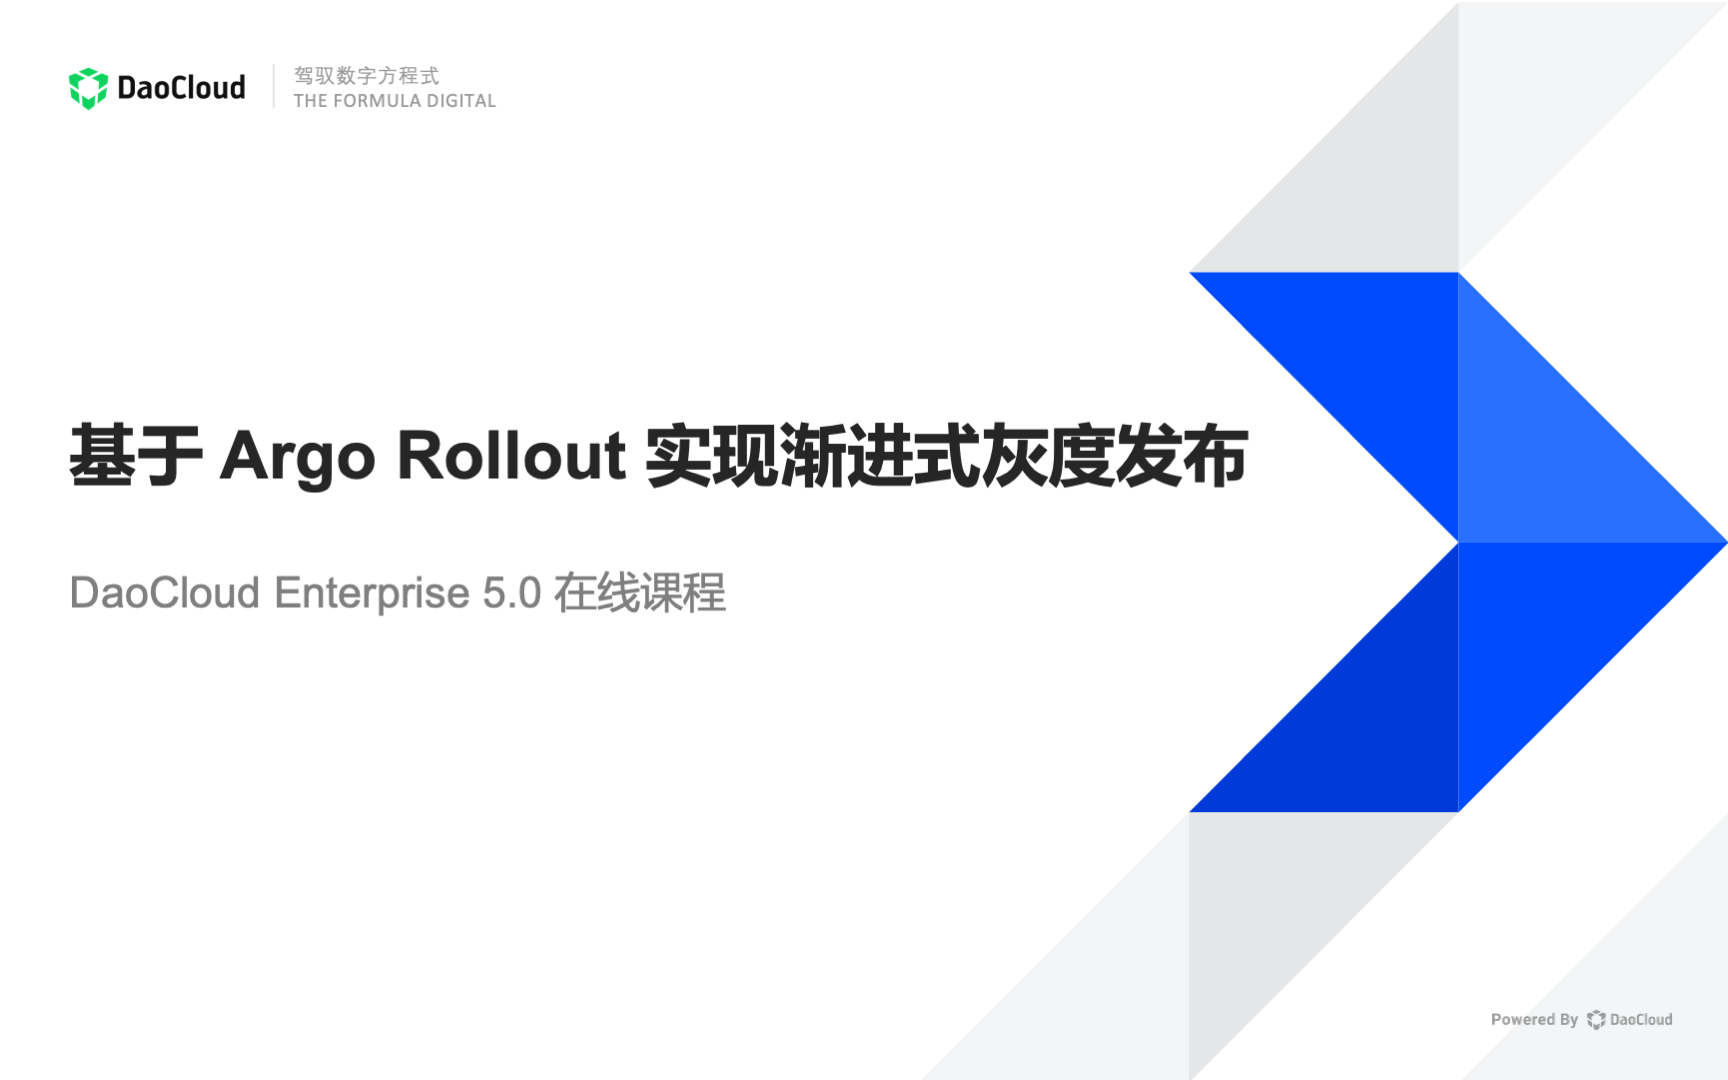
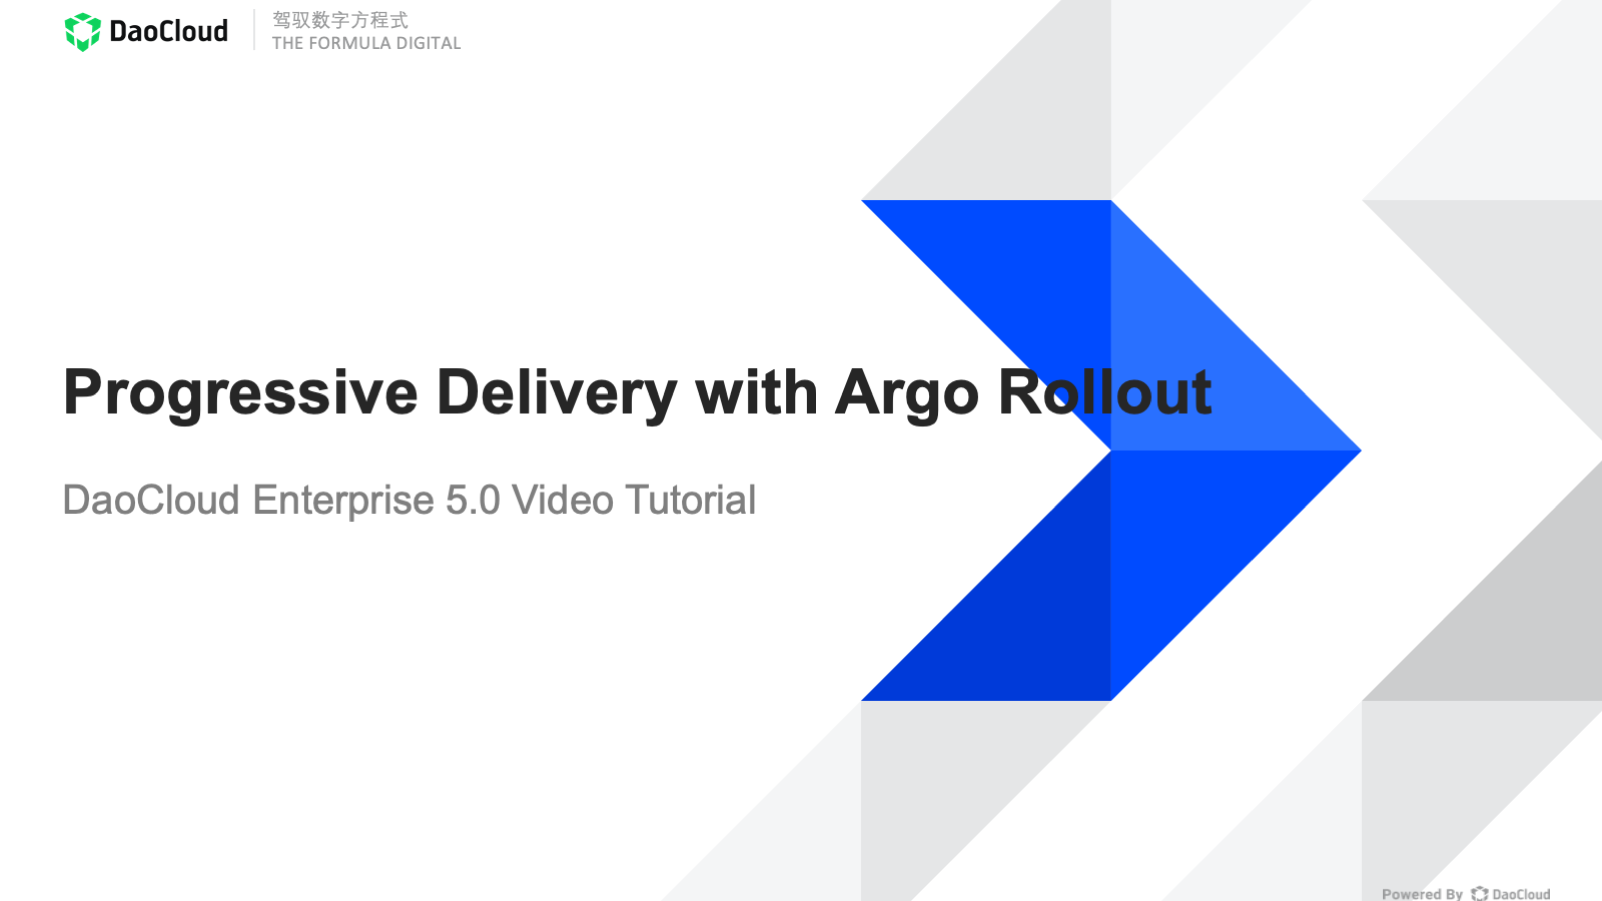
update en video

diff --git a/docs/en/docs/videos/kairship.md b/docs/en/docs/videos/kairship.md
@@ -2,28 +2,48 @@
 
 > If there is a problem with the video display, please refresh the page, or try to clear the browser cache.
 
-## Create a multicloud instance
-
-See the [Create a multicloud instance](../kairship/instance/add.md) documentation page.
+## Multicloud Module Introduction
 
 <div class="responsive-video-container">
-<iframe src="https://harbor-test2.cn-sh2.ufileos.com/docs/videos/kairship-instance.mp4" scrolling="no" border="0" frameborder="no" framespacing="0 " allowfullscreen="true"> </iframe>
+<video controls src="https://harbor-test2.cn-sh2.ufileos.com/docs/videos/multicloud-intro.mp4" preload="metadata" poster="../images/kairship-intro.png"></video>
 </div>
 
-## Create a multicloud workload
+## Creating Multicloud Instances
 
-See the [Creating Multicloud Workloads](../kairship/workload/deployment.md) documentation page.
+Refer to the [Creating Multicloud Instances](../kairship/instance/add.md) document page.
 
 <div class="responsive-video-container">
-<iframe src="https://harbor-test2.cn-sh2.ufileos.com/docs/videos/workloads.mp4" scrolling="no" border="0" frameborder="no" framespacing="0" allowfullscreen ="true"> </iframe>
+<video controls src="https://harbor-test2.cn-sh2.ufileos.com/docs/videos/kairship-instance.mp4" preload="metadata" poster="../images/kairship-instance.png"></video>
 </div>
 
-## Manage multicloud resources
+## Creating Multicloud Workloads
 
-See [Multicloud Service](../kairship/resource/service.md), [Multicloud Namespace](../kairship/resource/ns.md), [Multicloud Configuration](../kairship/resource/configmap.md), [Multicloud Secret](../kairship/resource/secret.md) documentation page.
+Refer to the [Creating Multicloud Workloads](../kairship/workload/README.md) document page.
 
 <div class="responsive-video-container">
-<iframe src="https://harbor-test2.cn-sh2.ufileos.com/docs/videos/multicloud-resoruces.mp4" scrolling="no" border="0" frameborder="no" framespacing="0 " allowfullscreen="true"> </iframe>
+<video controls src="https://harbor-test2.cn-sh2.ufileos.com/docs/videos/workloads.mp4" preload="metadata" poster="../images/kairship-workload.png"></video>
+</div>
+
+## Creating Multicloud Jobs and CronJobs
+
+Refer to the [Creating Multicloud Jobs](../kairship/workload/job.md) and [Creating Multicloud CronJobs](../kairship/workload/cronjob.md) document pages.
+
+<div class="responsive-video-container">
+<video controls src="https://harbor-test2.cn-sh2.ufileos.com/docs/videos/job-cronjob.mp4" preload="metadata" poster="../images/kairship-job.png"></video>
+</div>
+
+## Managing Multicloud Resources
+
+Refer to the [Multicloud Services](../kairship/resource/service.md), [Multicloud Namespaces](../kairship/resource/ns.md), [Multicloud Configuration Items](../kairship/resource/configmap.md), and [Multicloud Secrets](../kairship/resource/secret.md) document pages.
+
+<div class="responsive-video-container">
+<video controls src="https://harbor-test2.cn-sh2.ufileos.com/docs/videos/multicloud-resoruces.mp4" preload="metadata" poster="../images/kairship-resource.png"></video>
+</div>
+
+## Upgrading DCE4 Applications to DCE5 Applications
+
+<div class="responsive-video-container">
+<video controls src="https://harbor-test2.cn-sh2.ufileos.com/docs/videos/kairship-migrate.mp4" preload="metadata" poster="../images/kairship-migrate.png"></video>
 </div>
 
 [Download DCE 5.0](../download/dce5.md){ .md-button .md-button--primary }

diff --git a/docs/en/docs/videos/index.md b/docs/en/docs/videos/index.md
@@ -1,19 +1,23 @@
 # Video Tutorials
 
-We've produced great video tutorials for you to get started quickly.
+We have created video tutorials to help you quickly get started.
 
-- [Best Practices](use-cases.md)
-- [Container Management](kpanda.md)
-- [Container Registry](kangaroo.md)
-- [Global Management](ghippo.md)
-- [Insight](insight.md)
-- [Install](install.md)
-- [Microservices](skoala.md)
-- [Middleware](mcamel.md)
-- [Multicloud Orchestration](kairship.md)
-- [Network](network.md)
-- [Service Mesh](mspider.md)
-- [Workbench](amamba.md)
+<div class="grid cards" markdown>
+
+- :fontawesome-solid-jet-fighter-up: **Installation** [Community and Enterprise Edition Installation](install.md)
+- :octicons-heart-fill-24: **Best Practices** [Scenario-based video tutorials](use-cases.md)
+- :octicons-container-16: **Container Management** [Infrastructure such as clusters, nodes, and loads](kpanda.md)
+- :fontawesome-solid-user-group: **Global Management** [Login settings, access permissions, appearance](ghippo.md)
+- :material-monitor-dashboard: **Insight** [One-stop graphical dashboard](insight.md)
+- :material-microsoft-azure-devops: **Workbench** [CI/CD pipeline](amamba.md)
+- :material-cloud-check: **Multicloud Management** [Multi-cloud instances/loads/policies](kairship.md)
+- :material-engine: **Microservice Engine** [Microservice governance center and gateway](skoala.md)
+- :material-table-refresh: **Service Mesh** [Non-intrusive service governance](mspider.md)
+- :material-middleware: **Middleware** [ES, Kafka, MinIO, MySQL, etc.](mcamel.md)
+- :material-warehouse: **Container Repository** [Image integration and hosting services](kangaroo.md)
+- :material-dot-net: **Network** [Multiple CNI fusion solutions](network.md)
+
+</div>
 
 [Download DCE 5.0](../download/dce5.md){ .md-button .md-button--primary }
 [Install DCE 5.0](../install/intro.md){ .md-button .md-button--primary }

diff --git a/docs/en/docs/videos/skoala.md b/docs/en/docs/videos/skoala.md
@@ -2,6 +2,14 @@
 
 > If any problem with the video display, please refresh your page or try to clear your browser cache.
 
+## Accessing the Registry Center
+
+See to the [Accessing the Registry Center](../skoala/trad-ms/integrated/integrate-registry.md) document page.
+
+<div class="responsive-video-container">
+<video controls src="https://harbor-test2.cn-sh2.ufileos.com/docs/videos/integrate-registry.mp4" preload="metadata" poster="../images/skoala-integrate.png"></video>
+</div>
+
 ## Microservice configuration list
 
 <div class="responsive-video-container">
@@ -22,6 +30,22 @@ See the [API Policy Configuration](../skoala/gateway/api/api-policy.md) document
 
 <div class="responsive-video-container">
 <iframe src="https://harbor-test2.cn-sh2.ufileos.com/docs/videos/apipolicy1.mp4" scrolling="no" border="0" frameborder="no" framespacing="0" allowfullscreen ="true"> </iframe>
+</div>
+
+## Advanced Configuration of API Policies (2)
+
+Refer to the [API Policy Configuration](../skoala/gateway/api/api-policy.md) document page.
+
+<div class="responsive-video-container">
+<video controls src="https://harbor-test2.cn-sh2.ufileos.com/docs/videos/api-policy2.mp4" preload="metadata" poster="../images/skoala-api2.png"></video>
+</div>
+
+## Governing Microservice Traffic with Service Mesh
+
+Refer to the [Microservice Traffic Governance](../mspider/user-guide/traffic-governance/README.md) document page.
+
+<div class="responsive-video-container">
+<video controls src="https://harbor-test2.cn-sh2.ufileos.com/docs/videos/traffic-governance.mp4" preload="metadata" poster="../images/skoala-mesh.png"></video>
 </div>
 
 [Download DCE 5.0](../download/dce5.md){ .md-button .md-button--primary }

diff --git a/docs/en/docs/videos/use-cases.md b/docs/en/docs/videos/use-cases.md
@@ -11,3 +11,27 @@
 <div class="responsive-video-container">
 <video controls src="https://harbor-test2.cn-sh2.ufileos.com/docs/videos/failover-en.mp4" preload="metadata" poster="../images/hybrid-expansion.png"></video>
 </div>
+
+## How to Connect Microservices to DCE 5.0 and Manage North-South Traffic?
+
+<div class="responsive-video-container">
+<video controls src="https://harbor-test2.cn-sh2.ufileos.com/docs/videos/microservice01.mp4" preload="metadata" poster="../images/south-north.png"></video>
+</div>
+
+## How to Use Service Mesh for East-West Traffic Governance of Traditional Microservices?
+
+<div class="responsive-video-container">
+<video controls src="https://harbor-test2.cn-sh2.ufileos.com/docs/videos/microservice02.mp4" preload="metadata" poster="../images/west-east.png"></video>
+</div>
+
+## How to Embed DCE 5.0 into the Customer Platform?
+
+<div class="responsive-video-container">
+<video controls src="https://harbor-test2.cn-sh2.ufileos.com/docs/videos/oem-out.mp4" preload="metadata" poster="../images/oem-out.png"></video>
+</div>
+
+## How to Enable Traditional Applications to Communicate with Fixed IPs after Being Moved to the Cloud?
+
+<div class="responsive-video-container">
+<video controls src="https://harbor-test2.cn-sh2.ufileos.com/docs/videos/underlay-ip.mp4" preload="metadata" poster="../images/underlay-ip.png"></video>
+</div>

diff --git a/docs/en/docs/videos/amamba.md b/docs/en/docs/videos/amamba.md
@@ -16,7 +16,7 @@ See the [Namespace Management](../amamba/user-guide/namespace/namespace.md) docu
 <iframe src="https://harbor-test2.cn-sh2.ufileos.com/docs/videos/create-ns.mp4" scrolling="no" border="0" frameborder="no" framespacing="0 " allowfullscreen="true"> </iframe>
 </div>
 
-## Create a microservice app based on a Git repository
+## Create a git-based microservice app
 
 <!--Refer to [Create microservice application based on Git repository]() documentation page. -->
 
@@ -30,6 +30,14 @@ See the [Creating an Argo CD Application](../amamba/user-guide/gitops/create-arg
 
 <div class="responsive-video-container">
 <iframe src="https://harbor-test2.cn-sh2.ufileos.com/docs/videos/gitops.mp4" scrolling="no" border="0" frameborder="no" framespacing="0" allowfullscreen ="true"> </iframe>
+</div>
+
+## Progressive Delivery with Argo Rollout
+
+Refer to the [Creating a Canary Release Task](../amamba/user-guide/release/canary.md) document page.
+
+<div class="responsive-video-container">
+<video controls src="https://harbor-test2.cn-sh2.ufileos.com/docs/videos/canary.mp4" preload="metadata" poster="../images/amamba-canary.png"></video>
 </div>
 
 ## CICD based on Pipeline and GitOps

diff --git a/docs/en/docs/videos/mcamel.md b/docs/en/docs/videos/mcamel.md
@@ -30,6 +30,14 @@ See the [Kafka Message Instance Management](../middleware/kafka/user-guide/creat
 <iframe src="https://harbor-test2.cn-sh2.ufileos.com/docs/videos/kafka.mp4" scrolling="no" border="0" frameborder="no" framespacing="0" allowfullscreen ="true"> </iframe>
 </div>
 
+## Managing MinIO Storage Instances
+
+Refer to the [MinIO Instance Management](../middleware/minio/user-guide/create.md) document page.
+
+<div class="responsive-video-container">
+<video controls src="https://harbor-test2.cn-sh2.ufileos.com/docs/videos/minio.mp4" preload="metadata" poster="../images/mcamel-minio.png"></video>
+</div>
+
 ## Redis cache management
 
 See the [Redis Cache Service](../middleware/redis/intro/what.md) documentation page.
